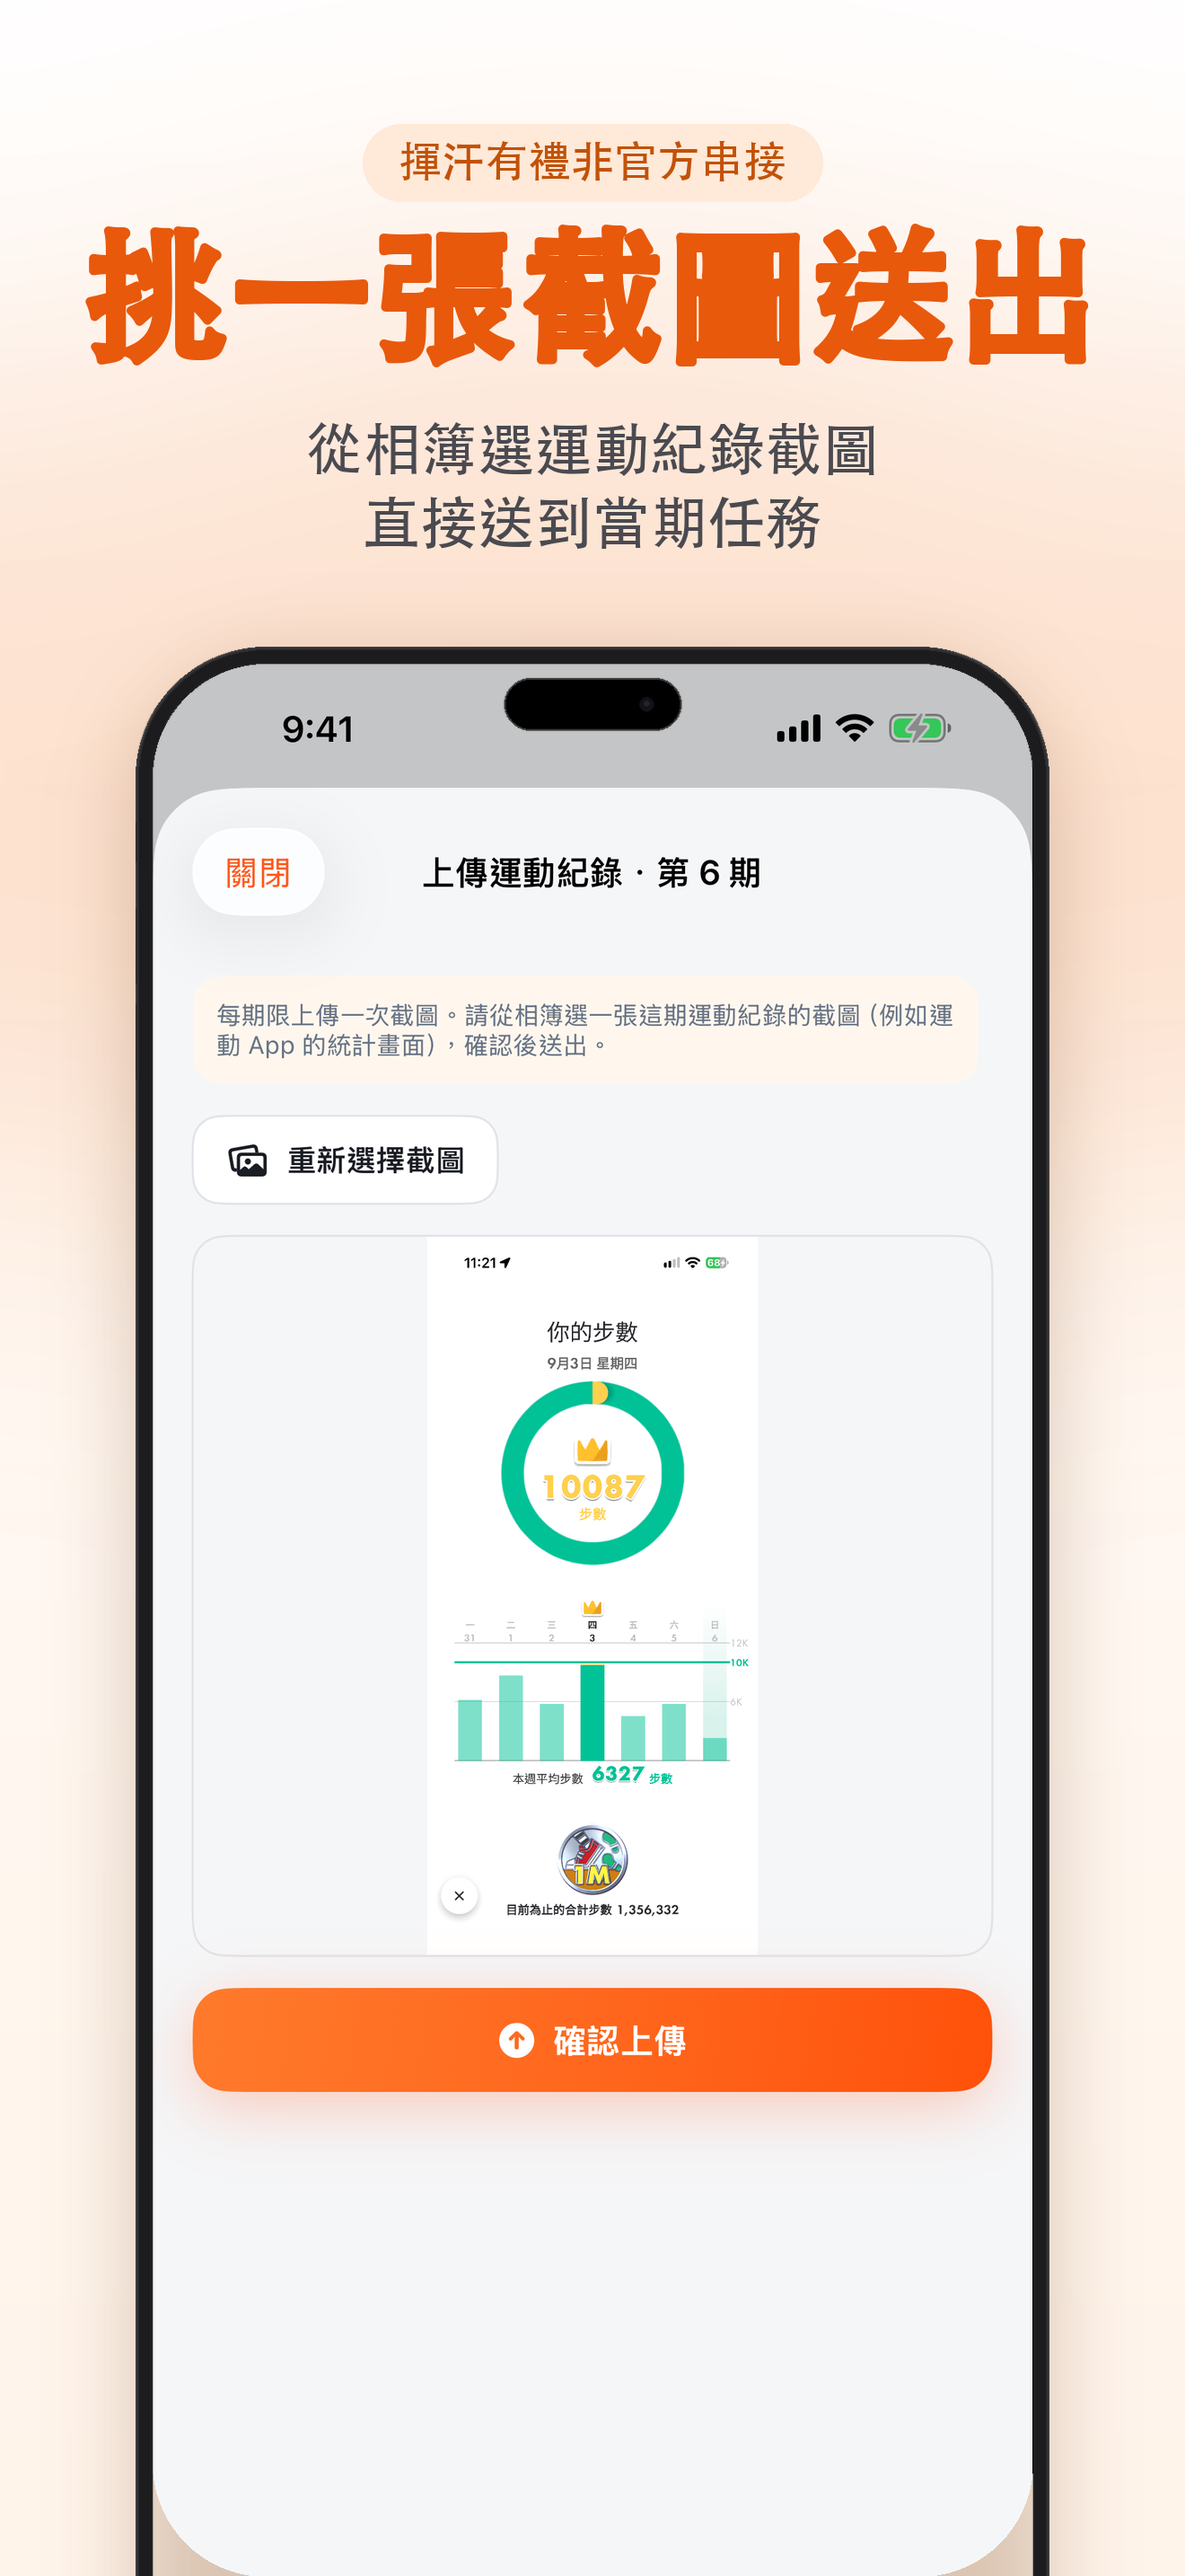
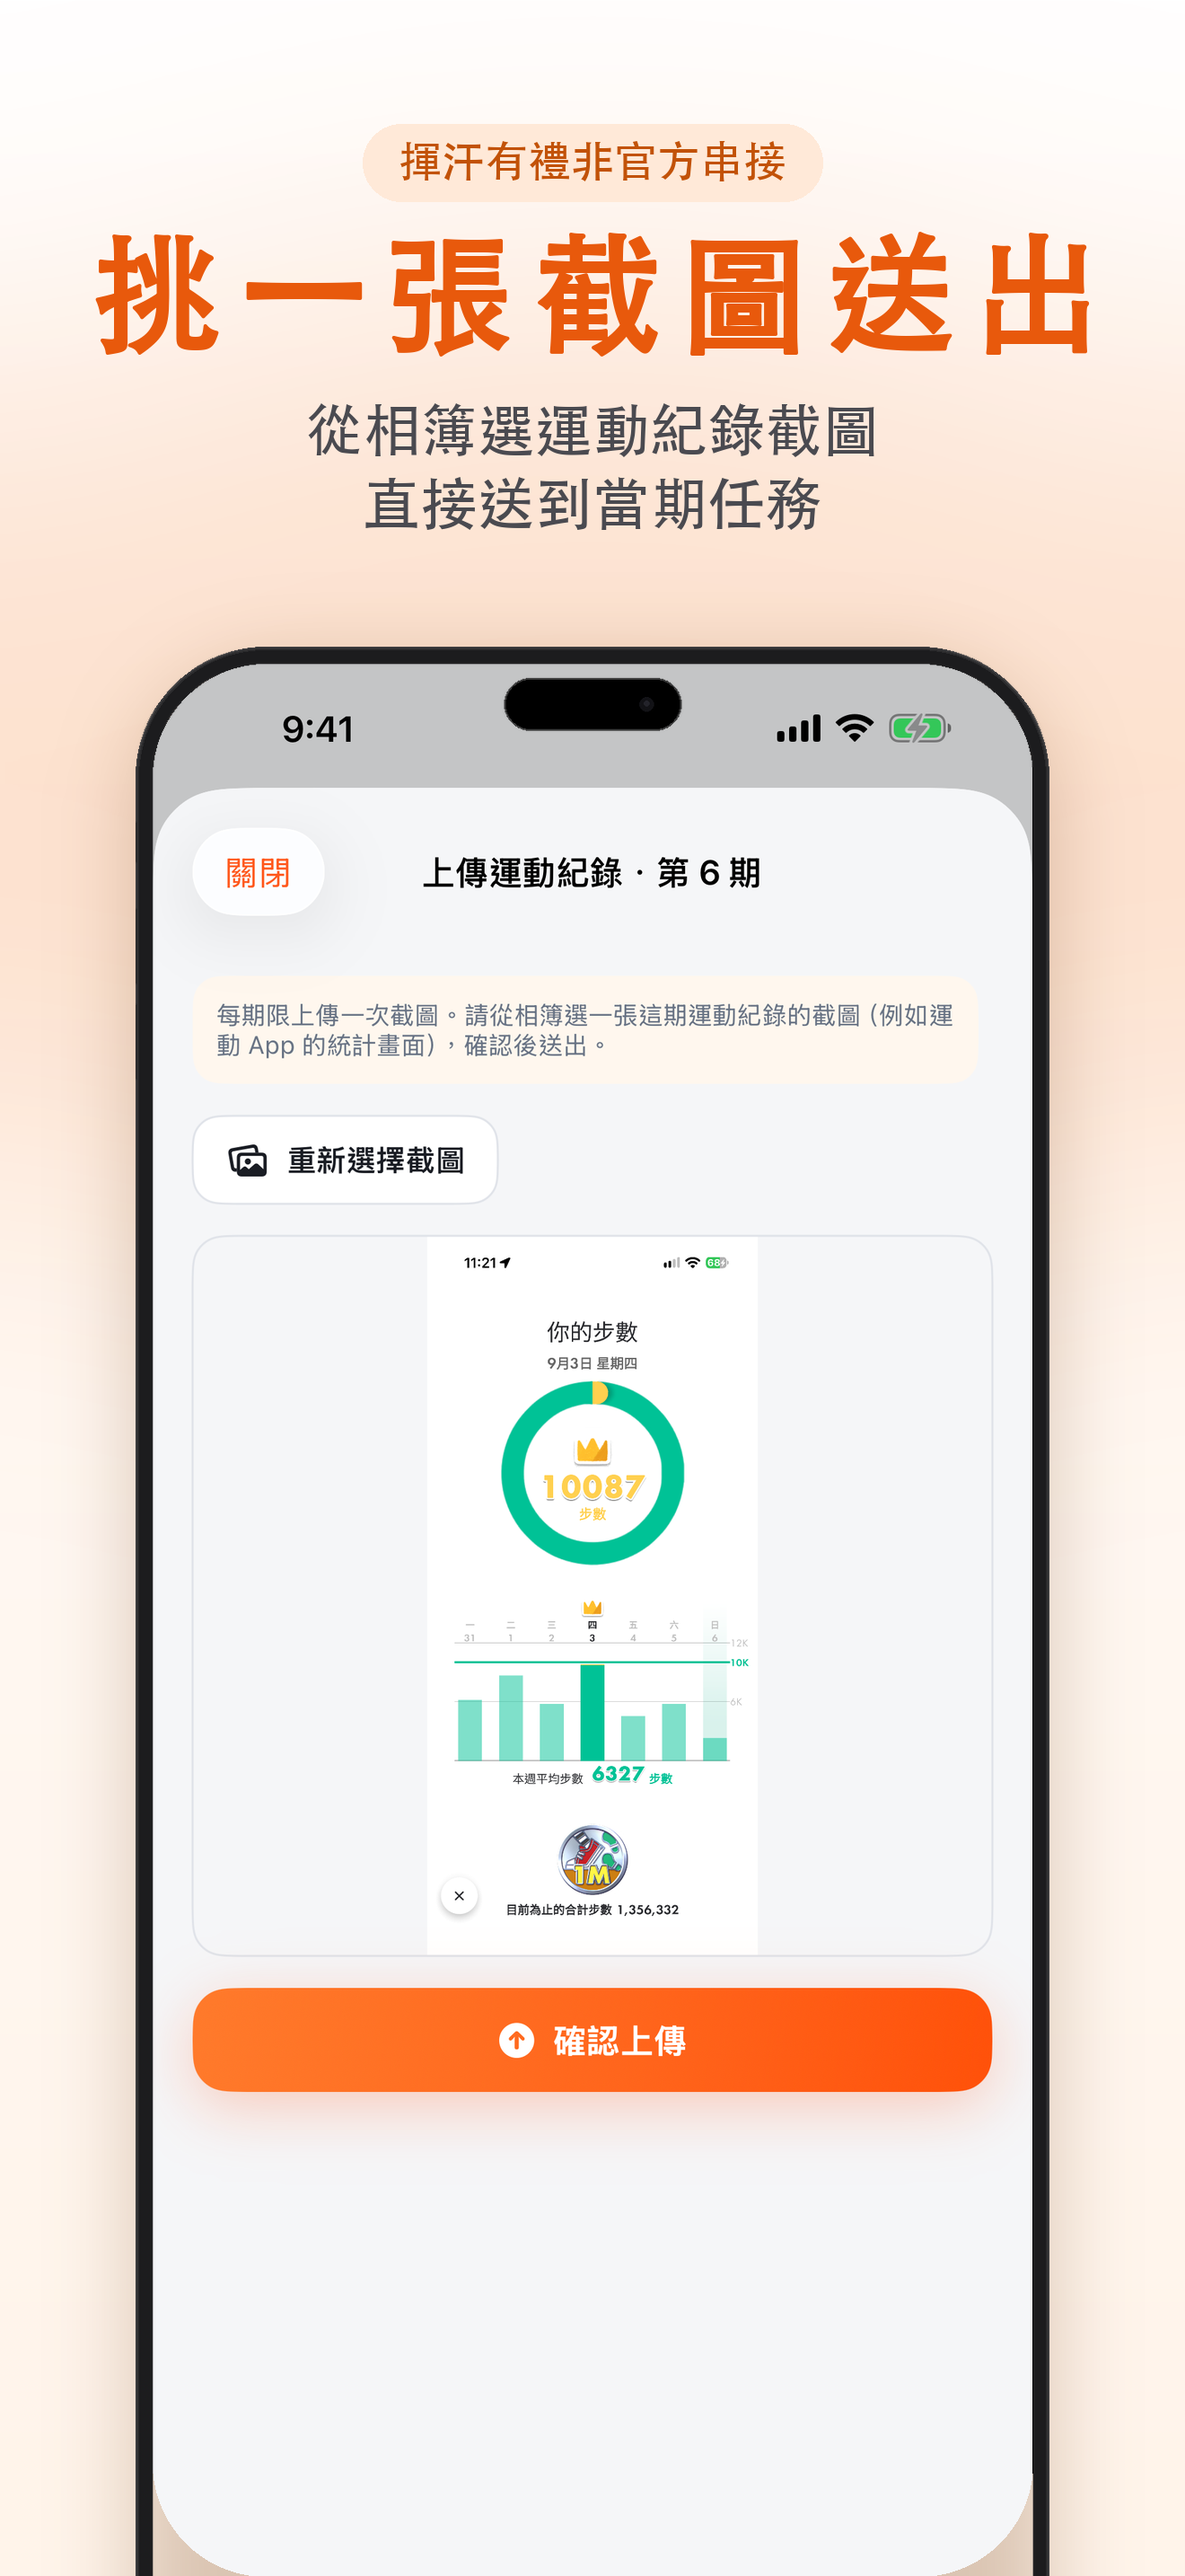
chore(design): recapture the store assets under the new name
改名之後這批素材一定要重拍：ProfileView 的頁尾與歡迎頁大標都會直接印出
App 名稱，zh-Hant_07 上就看得到舊名。順便把兩個一直被漏掉的前置步驟做齊——
測試檔頭寫著要做、但先前幾輪都跳過了：

- 相簿先用 simctl addmedia 種一張真實的運動紀錄截圖。不做這步，上傳頁會挑到
  模擬器內建的花卉照，跟「從相簿選運動紀錄截圖」的文案對不上。
- 狀態列用 simctl status_bar 覆寫成 9:41／滿格／充電中。不做這步會拍到當下
  時鐘（先前幾批是 10:49、1:29），素材看起來像隨手截的。

跑在 iPhone 17 Pro Max（測試檔頭指定的機型），raw 因此是原生 1320×2868，
不再從 6.3" 的 1206×2622 放大。

compose_zh.py 的字距修正也在這一版生效：中文字的 advance 正好是一個 em，
字身幾乎填滿字框，所以「照 advance 排」的中文標題本質上就是零字距，再加上
5px 描邊就讓相鄰字的筆畫直接相碰——遠看糊成一團。改成逐字繪製並加入
VERB_TRACK = 0.12 的字距、描邊降到 2px、字級上限降到 156，最窄字距從 2–8px
變成 24–30px。

Changed region(s): [[0.2485, 0.0621, 0.9318, 0.2172], [0.0621, 0.0621, 0.2174, 0.1552]]

diff --git a/docs/screenshots/store/compose_zh.py b/docs/screenshots/store/compose_zh.py
@@ -1,6 +1,6 @@
 #!/usr/bin/env python3
 """
-Sports Rewards — App Store 6.9" screenshot composer (zh-Hant).
+Exercise Rewards — App Store 6.9" screenshot composer (zh-Hant).
 
 Derived from the aso-cosmicmeta-ss skill's compose.py, adapted for:
   - Traditional Chinese headlines (Heiti TC, no space-based word wrap;
@@ -46,13 +46,19 @@ EYEBROW_Y = 138
 EYEBROW_PAD_X = 40
 EYEBROW_PAD_Y = 20
 VERB_TOP = 258
-VERB_SIZE_MAX = 184
+VERB_SIZE_MAX = 156
 VERB_SIZE_MIN = 128
-VERB_STROKE = 5
+VERB_STROKE = 2
+# Heiti's CJK glyphs fill their em box almost edge to edge, so a headline set at
+# the natural advance width has no visible gap between characters and the dense
+# glyphs smear together at thumbnail size. PIL has no letter-spacing, so the
+# headline is drawn one character at a time with this much extra tracking
+# (a fraction of the font size) inserted after each glyph.
+VERB_TRACK = 0.12
 VERB_DESC_GAP = 56
 DESC_SIZE = 64
 DESC_LINE_GAP = 22
-MAX_TEXT_W = int(CANVAS_W * 0.87)
+MAX_TEXT_W = int(CANVAS_W * 0.86)
 
 
 def font(size):
@@ -64,13 +70,40 @@ def text_size(draw, text, f, stroke=0):
     return b[2] - b[0], b[3] - b[1], b
 
 
-def fit_verb(draw, text):
+def verb_width(f, text):
+    """Advance width of the headline once VERB_TRACK tracking is inserted."""
+    track = VERB_TRACK * f.size
+    return sum(f.getlength(ch) for ch in text) + track * (len(text) - 1)
+
+
+def fit_verb(text):
     for size in range(VERB_SIZE_MAX, VERB_SIZE_MIN - 1, -2):
         f = font(size)
-        w, _, _ = text_size(draw, text, f, VERB_STROKE)
-        if w <= MAX_TEXT_W:
+        if verb_width(f, text) + 2 * VERB_STROKE <= MAX_TEXT_W:
             return f
     return font(VERB_SIZE_MIN)
+
+
+def render_verb(text, f):
+    """Render the headline glyph by glyph with tracking, cropped to its ink.
+
+    Returning a tightly cropped layer lets the caller centre on the real ink
+    box and place the ink top exactly at VERB_TOP, the same anchoring the
+    single-call ``draw.text(anchor="mt")`` version used to give us.
+    """
+    track = VERB_TRACK * f.size
+    pad = 4 * VERB_STROKE + 8
+    layer = Image.new("RGBA",
+                      (int(verb_width(f, text) + 2 * pad + f.size),
+                       int(f.size * 2.5 + 2 * pad)),
+                      (0, 0, 0, 0))
+    d = ImageDraw.Draw(layer)
+    x = float(pad)
+    for ch in text:
+        d.text((x, pad + f.size * 0.4), ch, font=f, fill=VERB_FG, anchor="la",
+               stroke_width=VERB_STROKE, stroke_fill=VERB_FG)
+        x += f.getlength(ch) + track
+    return layer.crop(layer.getbbox())
 
 
 def background():
@@ -112,11 +145,12 @@ def compose(shot_path, eyebrow, verb, desc, out_path):
     d = ImageDraw.Draw(canvas)
 
     # headline
-    vf = fit_verb(d, verb)
-    vw, vh, vb = text_size(d, verb, vf, VERB_STROKE)
-    d.text((CANVAS_W // 2, VERB_TOP - vb[1]), verb, font=vf, fill=VERB_FG,
-           anchor="mt", stroke_width=VERB_STROKE, stroke_fill=VERB_FG)
-    y = VERB_TOP + vh + VERB_DESC_GAP
+    vf = fit_verb(verb)
+    vimg = render_verb(verb, vf)
+    if vimg.width > MAX_TEXT_W:
+        raise SystemExit(f"headline too wide ({vimg.width}px > {MAX_TEXT_W}): {verb}")
+    canvas.alpha_composite(vimg, ((CANVAS_W - vimg.width) // 2, VERB_TOP))
+    y = VERB_TOP + vimg.height + VERB_DESC_GAP
 
     df = font(DESC_SIZE)
     for line in desc.split("\n"):
@@ -172,7 +206,8 @@ def compose(shot_path, eyebrow, verb, desc, out_path):
     os.makedirs(os.path.dirname(out_path), exist_ok=True)
     canvas.convert("RGB").save(out_path, "PNG")
     im = Image.open(out_path)
-    print(f"{out_path}  {im.size[0]}x{im.size[1]}  verb={verb}")
+    print(f"{out_path}  {im.size[0]}x{im.size[1]}  "
+          f"verb={verb} size={vf.size} w={vimg.width}")
     assert im.size == (CANVAS_W, CANVAS_H)
 
 
